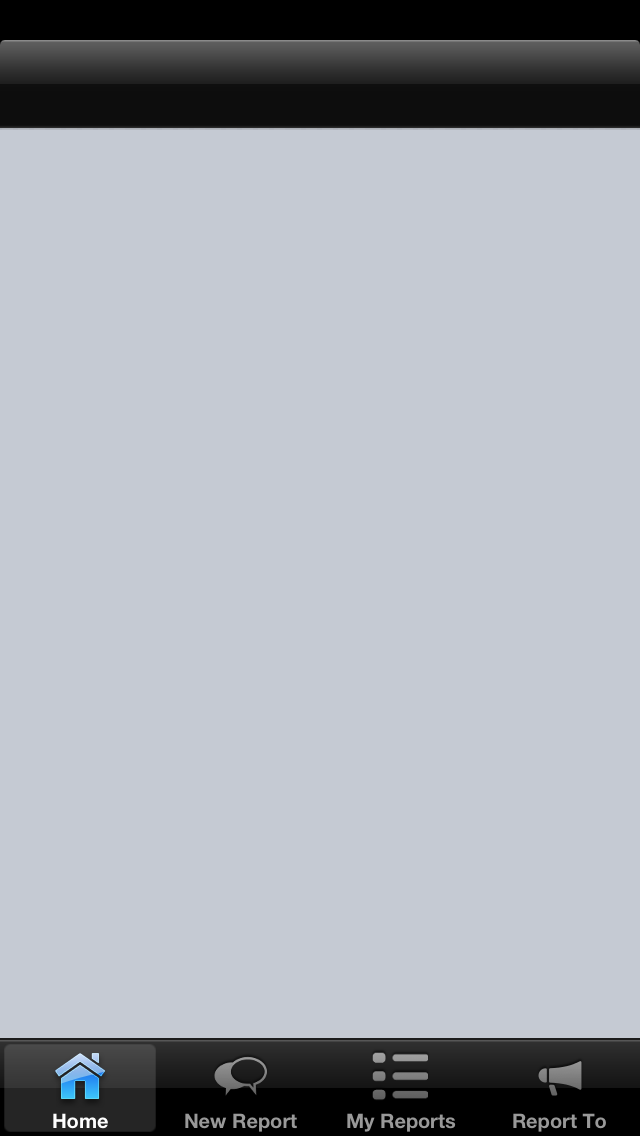
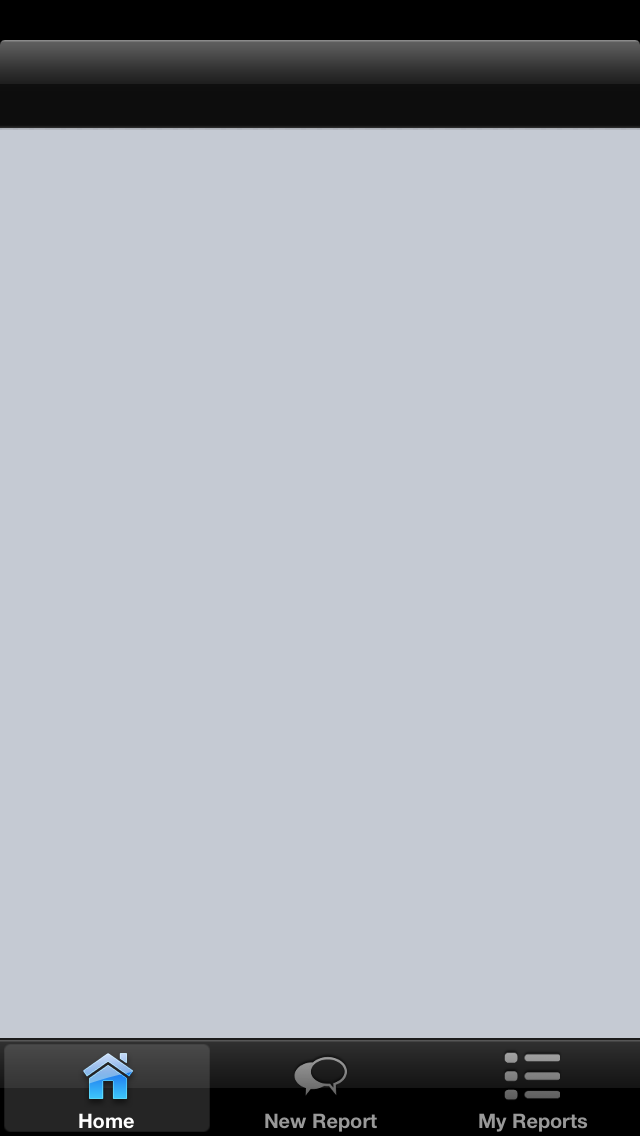
Removed servers tab and hard coded app for Bloomington (single city)

Changed region(s): [[0.0625, 0.8935, 0.7188, 1.0], [0.75, 0.9243, 0.9062, 1.0], [0.9062, 0.9551, 0.9375, 1.0]]

diff --git a/GeoReporter/GeoReporter/Models/Preferences.m b/GeoReporter/GeoReporter/Models/Preferences.m
@@ -55,23 +55,14 @@ SHARED_SINGLETON(Preferences);
 /**
  * Lazy load the current server information
  *
- * We only store the name of the current server on the phone.
- * Since the defintions for the servers can change, we must always 
- * load the fresh definition for the server from AvailableServers.
+ * This is modified from GeoReporter to support single-city apps.
+ * This function will always return the first entry in AvailableServers
  */
 - (NSDictionary *)getCurrentServer
 {
     if (currentServer == nil) {
-        NSString *name = [[NSUserDefaults standardUserDefaults] objectForKey:kOpen311_Name];
-        if (![name isEqualToString:@""]) {
-            NSArray *servers = [Preferences getAvailableServers];
-            int count = [servers count];
-            for (int i=0; i<count; i++) {
-                if ([servers[i][kOpen311_Name] isEqualToString:name]) {
-                    currentServer = servers[i];
-                }
-            }
-        }
+        NSArray *servers = [Preferences getAvailableServers];
+        currentServer = servers[0];
     }
     return currentServer;
 }

diff --git a/GeoReporter/GeoReporter/Controllers/HomeController.m b/GeoReporter/GeoReporter/Controllers/HomeController.m
@@ -35,7 +35,6 @@ static NSString * const kSegueToSettings = @"SegueToSettings";
     
     [[self.tabBarController.tabBar.items objectAtIndex:kTab_Report]  setTitle:NSLocalizedString(kUI_Report,  nil)];
     [[self.tabBarController.tabBar.items objectAtIndex:kTab_Archive] setTitle:NSLocalizedString(kUI_Archive, nil)];
-    [[self.tabBarController.tabBar.items objectAtIndex:kTab_Servers] setTitle:NSLocalizedString(kUI_Servers, nil)];
 }
 
 /**
